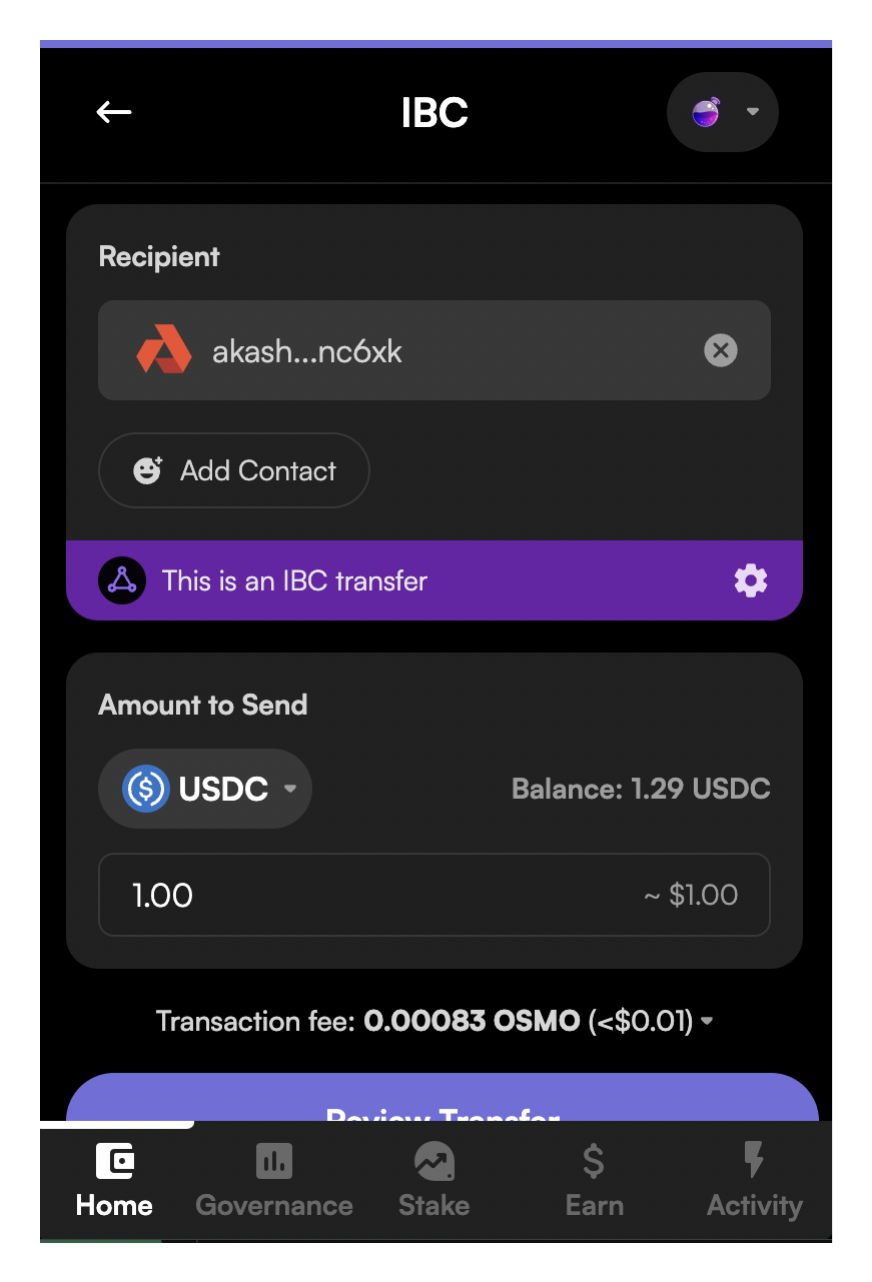
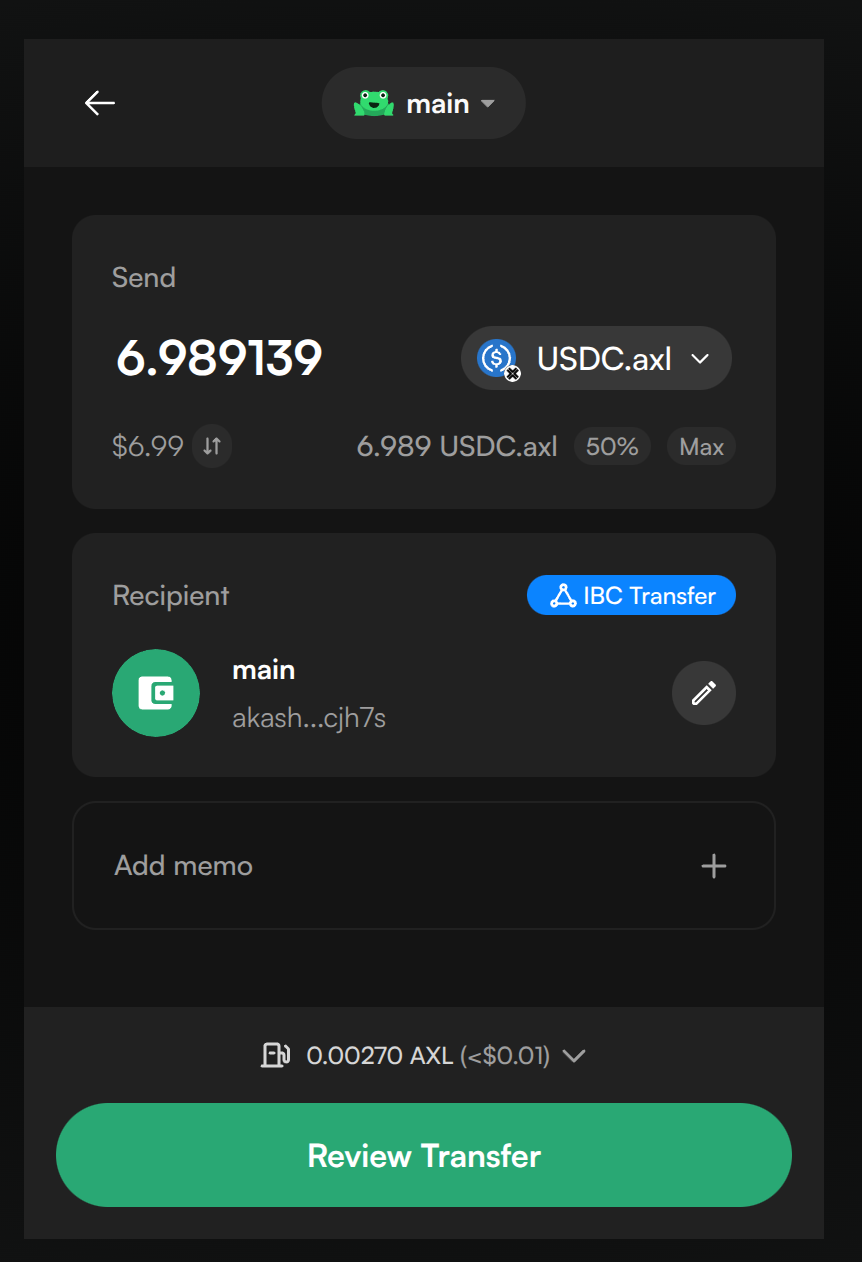
docs: Update stable payments via leap wallet guide

diff --git a/src/content/Docs/deployments/stable-payment-deployments/index.md b/src/content/Docs/deployments/stable-payment-deployments/index.md
@@ -15,7 +15,7 @@ In this guide we will review:
 
 ### Currently Supported Stable Coins
 
-- Axelar USDC (axlUSDC)
+- Axelar USDC (USDC.axl)
 
 ## Transfer USDC onto Akash using Leap Wallet
 
@@ -27,50 +27,66 @@ In this section we will detail methods to transfer Axelar USDC into your Akash a
 
 We find that using Leap Wallet to be the simplest method of transferring Axelar USDC into the Akash network and associated accounts as no manual specification of the IBC is necessary.
 
-In the steps that follow we will swap Akash AKT for Axelar USDC. Other methods are possible but if you would like to follow these instructions explictly, ensure that you have some available AKT.
+In the steps that follow we will swap Akash AKT for Axelar USDC. You can use any tokens that are swappable on the Osmosis DEX to get Axelar USDC but in this guide we assume you have some AKT on Akash.
+
+This involves two steps:
+
+- Swapping AKT for USDC.axl
+- Performing an Inter-Blockchain (IBC) transfer of the USDC.axl into Akash
 
 #### Install Leap Wallet Browser Plug In
 
 - Follow the instructions provided by Leap Wallet to install the appropriate web browser plug in [here](https://www.leapwallet.io/download).
 
-### IBC Transfer of USDC onto Akash
+### Transfer of USDC.axl onto Akash
 
-> _**NOTE**_ - in the current Leap Wallet version swaps of AKT to axlUSDC are only possible in the web app. Via the instructions below you will be automatically redirected to the Leap Wallet app for the purpose of AKT to axlUSDC swap. In future versions of Leap Wallet it may become possible to conduct the swap directly within the Leap Wallet browser plug in.
-
-#### STEP 1 - Open Leap Wallet Web App
+#### STEP 1 - Open Leap Wallet Browser Plug In
 
 - Open your Leap Wallet browser extension
-- Select Akash from the network selection drop down as shown
+- Select Akash from the network selection drop down on the top right as shown.
+- Confirm that you have some AKT available.
 
 ![](../../assets/leapWalletWithAkashSelected.png)
 
-#### STEP 2 - Open Leap Wallet Web App to Conduct Swap
+#### STEP 2 - Swap the AKT for USDC.axl
 
 - Select the Swap option within Leap Wallet as shown below
 
-![](../../assets/leapWalletInitiateWebApp.png)
+![](../../assets/leapWalletSwap.png)
 
-- The selection of the Swap option in the prior step will provoke the opening of the Leap Wallet web app
-- Within the app make the selections as indicated in the depiction below. The source and destination network should be Osmosis. The source denomination should be `AKT` and the destination denomination should be `axlUSDC` also as shown.
+- The selection of the Swap option in the prior step will open the swap interface within the browser extension.
+- Make the selections as indicated, swapping from `AKT` to `USDC.axl` on `Axelar` then complete the swap.
 
 ![](../../assets/ibcSwap.png)
 
-#### STEP 3 - Complete the IBC Transfer of axlUSDC onto Akash
+#### STEP 3 - Complete the IBC Transfer of USDC.axl into Akash
 
-- With the Swap now completed in the previous step, return to the Leap Wallet browser plug in.
-- Select the `IBC` option as depicted below.
+- With the Swap now completed in the previous step, we need to transfer the `USDC.axl` from the Axelar network into Akash.
+- For this we need some `AXL` on Axelar for gas fees. If you don't have any `AXL`, you can swap some of the `AKT` for `AXL` as shown below.
+- Make sure to select `AXL` on the `Axelar` network as the destination.
+
+![](../../assets/swapForAXL.png)
+
+- Next, select the `Send` option as depicted below to initiate transfer of `USDC.axl` into Akash.
 
 ![](../../assets/initiateIBC.png)
 
-- Complete an IBC transfer of `axlUSDC` onto the Akash Network.
-- Ensure that the Osmosis network is selected during this step as depicted below.
+- Select the `USDC.axl` token on Axelar as the token to send.
+- For the recipient, paste in your Akash wallet address, or click the contacts icon select Your Wallets > Wallet name > Akash.
+- The wallet should automatically detect an IBC transfer as shown below.
 
 ![](../../assets/sendOntoAkash.png)
 
+- Review and complete the transfer.
+
 ### Verify IBC Transfer and Availability of USDC on Akash Network
 
-- The simplest means of verifying the IBC transfer of USDC was successful and is available in your account on the Akash network is via the Akash CLI.
-- USDC balances can also be verified in Akash Console of preferred.
+- Going back to the home section of the leap wallet extension and selecting Akash as the network from the dropdown, you should be able
+to see your `USDC.axl` balance as below.
+
+![](../../assets/confirmBalance.png)
+
+- USDC balances can also be verified with the Akash CLI as follows:
 
 _**CLI Verification/Command Template**_
 
@@ -81,15 +97,15 @@ provider-services query bank balances <akash-address>
 _**Expected/Example Output**_
 
[1 lines of base64/hex data omitted]
-- This demon represents available Axelar USDC and indicates availability of stable payment funds to utilize for Akash deployments
+- This denom represents available Axelar USDC and indicates availability of stable payment funds to utilize for Akash deployments
 
 ```
 provider-services query bank balances akash1w3k6qpr4uz44py4z68chfrl7ltpxwtkngnc6xk
 
 balances:
-- amount: "3068485"
+- amount: "19442338"
   denom: ibc/170C677610AC31DF0904FFE09CD3B5C657492170E7E52372E48756B71E56F2F1
-- amount: "8650845"
+- amount: "59994563"
   denom: uakt
 pagination:
   next_key: null
